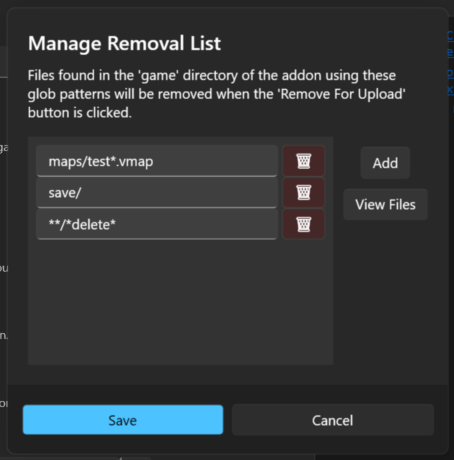
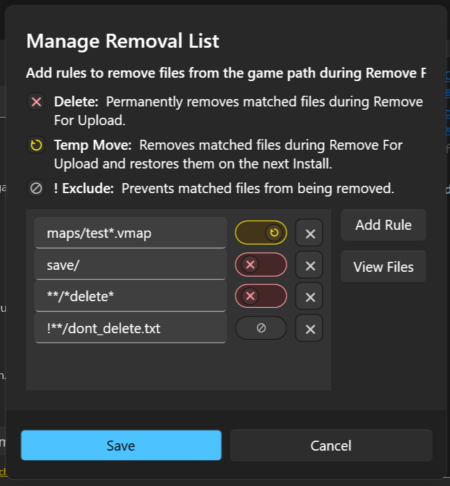
docs: update instructions for installer file removal

diff --git a/docs/getting_started/app_installation.md b/docs/getting_started/app_installation.md
@@ -153,33 +153,43 @@ This will remove any AlyxLib related files that have not been modified in your a
 
 ### Using file removal on upload
 
-AlyxLib Installer comes with a feature for deleting files you don't want in your addon's `game` folder when you click `Remove For Upload`.
+Use the removal list editor to control which files in your addon's `game` folder are affected when you click `Remove For Upload`.
 
-These files can be defined in `Addon -> Manage Removal List`.
+Open the removal list editor from `Addon -> Manage Removal List`.
 
-File removal uses [glob patterns](https://www.malikbrowne.com/blog/a-beginners-guide-glob-patterns/) to match file paths.
+Each rule is a [glob pattern](https://www.malikbrowne.com/blog/a-beginners-guide-glob-patterns/) that matches one or more file paths.
 
-To add a new pattern, click `Add`. You can then enter a glob pattern in the empty field.
+For each rule, you can choose one of two actions:
 
-To remove a pattern, click the button with the trashcan icon next to it.
+- *Delete*: Permanently deletes matching files.
+- *Temp Move*: Temporarily removes matching files and restores them the next time you click `Install`.
+
+!!! note
+    Temporarily removed files are moved to the `.alyxlib` folder in your addon's content folder until AlyxLib is re-installed.
+
+You can also start a rule with `!` to exclude matching files from removal.
+
+To edit the list:
+
+1. Click `Add Rule`.
+2. Enter the glob pattern you want to match. Prefix the pattern with `!` if you want it to act as an exclusion rule instead.
+3. Click the colored switch to choose between *Delete* and *Temp Move*.
+4. Click the `x` button on that rule's row to remove that rule.
 
 ??? example "Image"
     ![image](../assets/aids/installer/installer-file_remove_editor.png)
 
-At any point you can click `View Files` to see a list of all files in your addon's `game` folder that match the patterns in the removal list.
+Click `View Files` to preview every file in your addon's `game` folder that matches the current rules.
 
 ??? example "Image"
     ![image](../assets/aids/installer/installer-file_remove_editor_list.png)
 
-When you're ready, click `Save` to save the removal list to your addon profile, or `Cancel` to discard the changes.
+Click `Save` to store the removal list in your addon profile, or `Cancel` to discard your changes.
 
-If any files match the patterns in the removal list, the installer will remind you of this with a note of how many below the `Remove For Upload` button. This note can be clicked to see a list of the files that will be removed.
+If any files match the current rules, the installer shows a note below `Remove For Upload` with the number of affected files. Click that note to see the full list.
 
 ??? example "Image"
     ![image](../assets/aids/installer/installer-file_remove_reminder.png)
-
-!!! warning ""
-    This feature might change from permanent deletion to temporary removal in a future update.
 
 
 ## Settings
